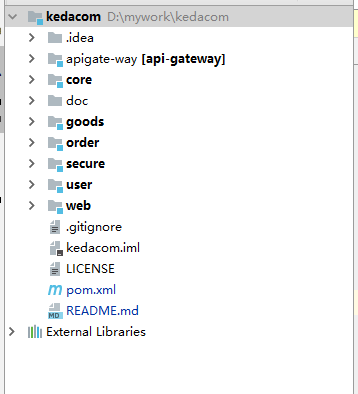
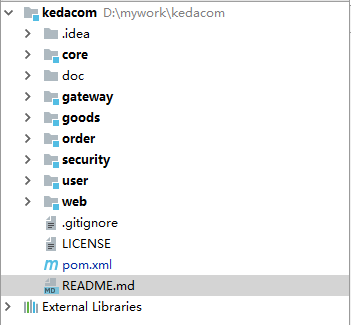
更新

diff --git a/gateway/src/main/java/com/github/mahui53541/kedacom/gateway/GatewayApplication.java b/gateway/src/main/java/com/github/mahui53541/kedacom/gateway/GatewayApplication.java
@@ -2,7 +2,7 @@ package com.github.mahui53541.kedacom.gateway;
 
 import com.github.mahui53541.kedacom.gateway.filters.pre.SimpleFilter;
 import org.springframework.boot.SpringApplication;
-import org.springframework.cloud.client.SpringCloudApplication;
+import org.springframework.boot.autoconfigure.SpringBootApplication;
 import org.springframework.cloud.netflix.zuul.EnableZuulProxy;
 import org.springframework.context.annotation.Bean;
 
@@ -13,7 +13,7 @@ import org.springframework.context.annotation.Bean;
  * @version:1.0.0
  */
 @EnableZuulProxy
-@SpringCloudApplication
+@SpringBootApplication
 public class GatewayApplication {
 
     public static void main(String[] args) {

diff --git a/README.md b/README.md
@@ -14,11 +14,19 @@
 
 ![](/doc/img/structure.png)
 
+## 架构
+
+**SpringBoot+Spring Data JPA+SpringSecurity+zuul+thymeleaf+MySQL**
 
 ## 达成目标:
 
   - 1.使用Spring Boot, Spring JPA实现底层服务的CRUD
   - 2.单元测试，API测试
   - 3.符合RESTFUL API规范
-  - 4.实现服务网关组件
-  - 5.实现服务的高可用
+  - 4.安全验证（Spring Security）
+  - 5.实现服务网关组件(zuul)
+  - 6.实现服务的高可用
+
+## 项目启动
+
+首先启动web项目（项目主入口），项目启动在8090端口;接着启动服务网关组件gateway,端口号8080，访问http://localhost:8080/shop即可演示项目
